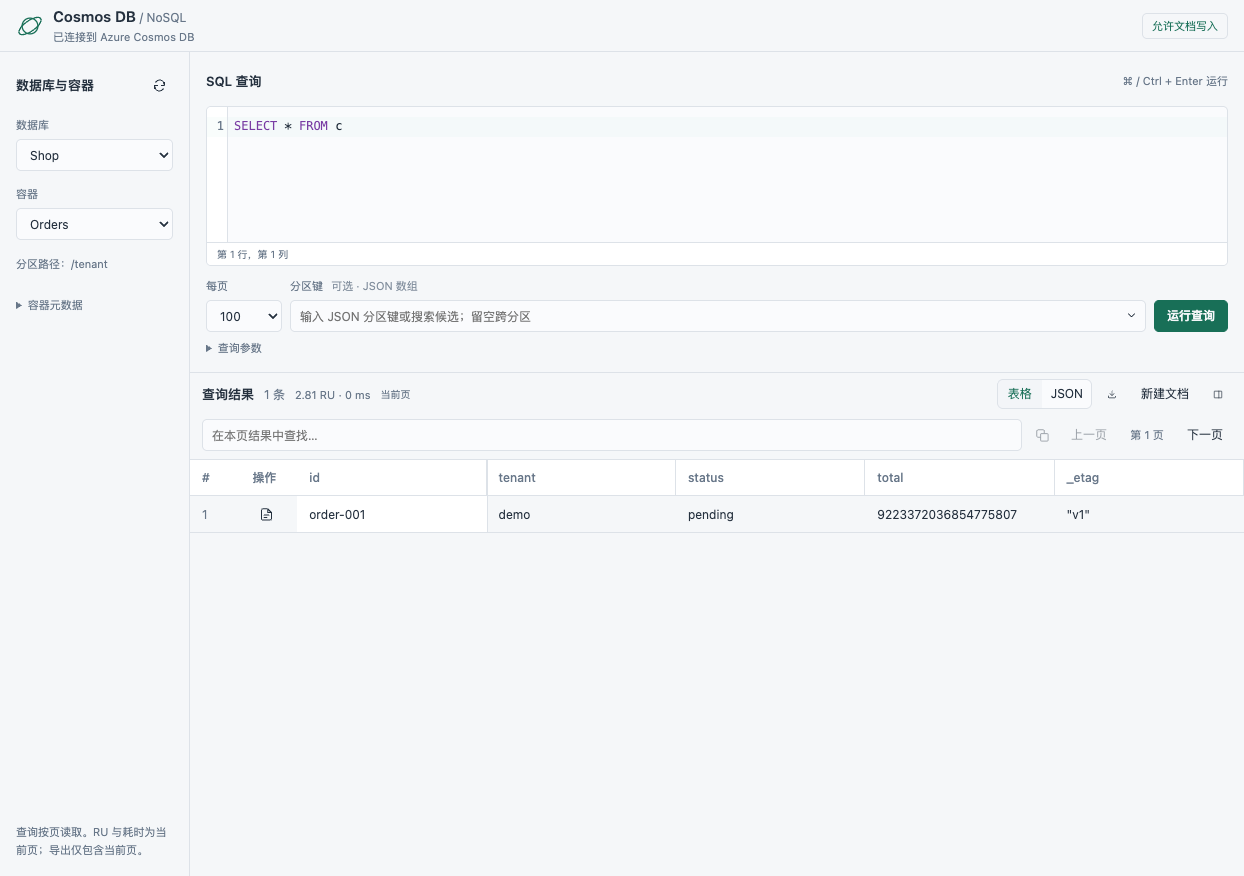
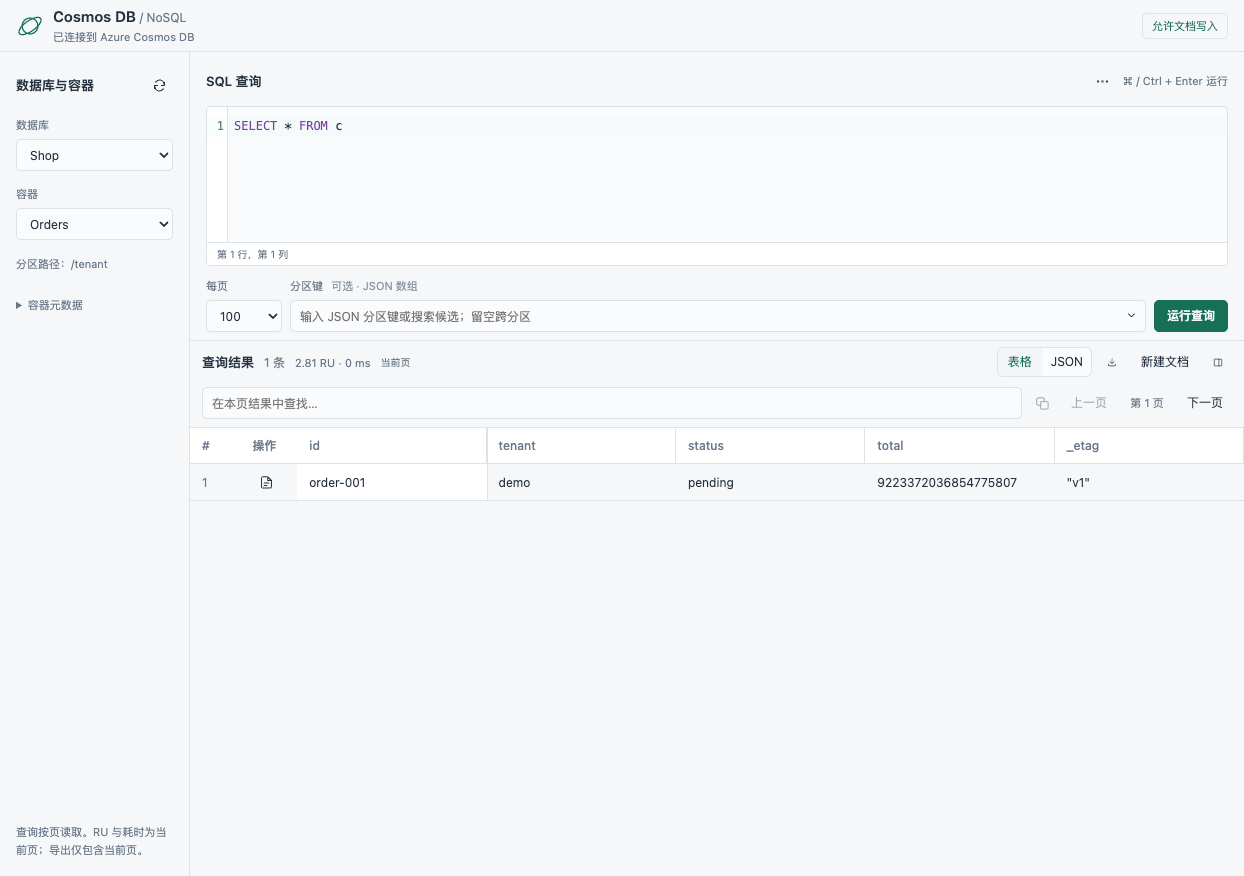
Prepare 0.24.0 release notes, privacy documentation and screenshots

diff --git a/docs/SECURITY.md b/docs/SECURITY.md
@@ -7,7 +7,7 @@ This document describes the release candidate for DBX Store review. The plugin s
 - Adds a Cosmos DB for NoSQL connection provider and a sandboxed workbench.
 - Manifest permissions are empty. This does not sandbox the native Go sidecar's operating-system access.
 - DBX owns saved connections and Secret Store credential persistence. The Account Key field uses `binding: secret`; the workbench UI is not given the Account Key.
-- The Go sidecar receives the active connection credentials through the DBX connection lifecycle and holds them in memory. It does not write Account Keys, authorization headers, or document bodies to its cache or logs.
+- The Go sidecar receives the active connection credentials through the DBX connection lifecycle and holds them in memory. It does not persist Account Keys received from the connection lifecycle or authorization headers, and it does not automatically cache returned document bodies. User-authored query input is stored separately as described below.
 
 ## Network and document access
 
@@ -22,8 +22,9 @@ This document describes the release candidate for DBX Store review. The plugin s
 - The sidecar writes a partition-key cache under the operating-system user cache directory (`dbx-plugin-cosmosdb/partition-keys-v1/`). Cache keys incorporate endpoint and connection/container identity as a hash. Files contain discovered partition values, progress and timestamps, not document bodies or credentials. Directories use 0700 and files 0600 on Unix-like systems.
 - Column widths are atomically persisted in private `table-layout-v1` files below `DBX_PLUGIN_DATA_DIR`, falling back to the user config directory. Paths hash endpoint, connection and container identity. Files are limited to 128 KiB, contain column names and dimensions only, and use 0600 permissions on Unix-like systems. Legacy visibility and pinning preferences are ignored; all returned fields are shown and id remains pinned.
 - The selected database/container pair is atomically persisted in `selected-scope-v1` below the same private data root, isolated by hashed endpoint and connection identity. Records contain only the version, database, container and a random revision, are limited to 8 KiB on read, and use 0700 directories / 0600 files on Unix-like systems. The workbench and MCP share this location. Existing connection defaults migrate after successful connection validation; the plugin does not rewrite DBX connection records or credentials. Invalid or inaccessible saved locations require explicit reselection instead of silently choosing another container.
-- Plugin-wide result/document view preferences are atomically persisted in `view-preferences-v1.json` under the same private data root. The versioned record contains only the enum values `table`/`json` and `fields`/`json`, with a 4 KiB read limit and 0600 files on Unix-like systems. Result and document choices merge independently; invalid records fall back to defaults. No SQL, parameters, document data or credentials are stored.
-- Document/query drafts and learned completion field names are in memory. Field-name learning does not trigger network scans.
+- Plugin-wide result/document view preferences are atomically persisted in `view-preferences-v1.json` under the same private data root. The versioned record contains only the enum values `table`/`json` and `fields`/`json`, with a 4 KiB read limit and 0600 files on Unix-like systems. Result and document choices merge independently; invalid records fall back to defaults. No SQL, parameters, document data or credentials are stored in this view-preference file.
+- Query input is atomically persisted as private `query-input-v1` records below the same data root, isolated by hashed endpoint, connection, database and container identity. Records contain the raw SQL, partition-key text, parameter text and page size, including unfinished syntax. SQL is limited to 256 KiB, parameter text to 128 KiB, partition text to 16 KiB and the encoded record/read to 2 MiB. Directories use 0700 and files 0600 on Unix-like systems. SQL literals and parameters may contain sensitive values; these records are local plaintext files protected by operating-system permissions, not encryption. They are not synchronized or exposed through MCP. Reopening restores input only; it never executes queries or starts discovery. Reset query overwrites this scope's saved input with defaults.
+- Unsaved document drafts, results, undo history and learned completion field names remain in memory. Field-name learning does not trigger network scans. In-flight local saves are not guaranteed after forced termination or sudden power loss.
 - Export is an explicit user action through DBX's `host.saveFile`; it exports the current result page only, with a 1 MiB limit.
 - Test servers, Azure validation scripts, package verification helpers, and identity migration notes are repository tooling. They are not included in the installed plugin.
 

diff --git a/docs/releases/0.24.0.md b/docs/releases/0.24.0.md
@@ -1,0 +1,37 @@
+# Cosmos DB NoSQL 0.24.0
+
+Requires **DBX 0.6.59+**. Supported package target: **macOS ARM64 (Apple Silicon)**.
+
+This release brings the workbench improvements since store version 0.16.0:
+
+- **A quieter workspace:** SQL syntax errors appear once, the document panel opens on demand, and auxiliary actions share compact icon menus. Type or filter partition keys directly in the input, or use its dropdown.
+- **Clearer JSON:** hierarchy guides, the active container highlight and property/item counts make nested data easier to read and fold. Formatting, copying and editing preserve large integers and decimal text.
+- **Your preferred views:** result table/JSON and document fields/JSON choices are remembered independently.
+- **Chinese and English:** the interface follows the DBX language. Editor search, diagnostics, confirmations and folding labels follow it too; unsupported languages fall back to English.
+- **Resume per container:** SQL, partition-key text, query parameters and page size are automatically saved for each connection/endpoint/database/container. Reopening or returning restores input without running a query. Reset query is available from the menu beside the SQL heading and retains results and document edits.
+- **Fewer distractions:** query parameters appear when SQL uses parameter placeholders or parameter input is populated. Existing parameterized queries remain supported.
+
+## Upgrading and local data
+
+Existing saved connections, selected containers, read-only settings and Account Keys remain in place. No new host permissions or MCP tools are added. MCP stays read-only; UI writes retain confirmation and ETag safeguards.
+
+**Query input is now saved locally as plaintext**, including SQL literals and parameter values, in private `query-input-v1` files (0700 directories / 0600 files on Unix-like systems). It is isolated by connection and container, not synchronized, and not exposed through MCP. Reset query replaces the saved input for the current scope with defaults. Query results, unsaved document bodies and undo history are not persisted; a forced exit can lose an in-flight save. See [runtime behavior and data access](https://github.com/fwrq41251/dbx-plugin-cosmosdb/blob/v0.24.0/docs/SECURITY.md).
+
+Account Key authentication and the existing cross-partition query pipeline limitations remain unchanged. Query history/favorites and automatic recovery of unsaved document edits are outside this release.
+
+## Installation and validation
+
+The GitHub Release workflow produces an **unsigned review candidate**. Ordinary users should install the signed package from DBX Marketplace after the store update is reviewed, signed and merged.
+
+Validation: 49 frontend tests, 66 Go race tests, Go vet and 78 browser tests passed. The macOS ARM64 package passed SHA-256, file checksum, license, protocol v1 and connection-lifecycle checks. Native DBX installation and close/reopen input restoration were verified without executing business queries or modifying business documents. Documentation screenshots use local mock data only.
+
+---
+
+## 中文摘要
+
+- 精简 SQL、文档面板和辅助菜单；分区键可直接输入、过滤或下拉选择。
+- JSON 增加层级引导、当前层级强调和折叠数量摘要，保持数字原文精度。
+- 中文/英文跟随 DBX，分别记住结果和文档查看格式。
+- 按连接和容器恢复 SQL、分区键、参数及每页数量，恢复后不自动查询；SQL 标题旁菜单可重置查询。
+- **查询输入会以明文保存到本机私有目录，可能包含 SQL 和参数中的敏感值**；不通过 MCP 提供，不保存查询结果或未保存文档。
+- 兼容 DBX 0.6.59+，仅提供 macOS ARM64 包；商店更新需等待维护者审核、签名和合并。

diff --git a/docs/VALIDATION.md b/docs/VALIDATION.md
@@ -238,4 +238,11 @@
 - 49 项前端测试、66 项 Go race 测试与 vet 通过。新增完整输入原文/精确数字保持、连接/endpoint/数据库/容器隔离、只读连接本地保存、私有权限、记录损坏/大小限制、原子替换及重置验证；前端覆盖迟到读取、用户编辑优先、目标快照和保存失败后的会话保留。
 - 完整 78 项浏览器回归通过。新增关闭重开恢复、未完成分区键和参数文本、重置持久化、跨容器/连接隔离、下拉选择和清除分区键的保存，以及重置保留查询结果和文档草稿；恢复/切换不自动执行查询。专项覆盖发现并修复 CodeMirror 重建沿用旧 locale 的问题，英文环境重新读取文档后仍保留英文编辑器标签。
 - Mac ARM64 包通过 SHA-256、全部文件校验和、许可证、protocol v1 和连接生命周期校验；`git diff --check` 通过。截图仍使用模拟数据且保存在忽略提交的测试产物目录。
-- 本机安装待完成：DBX 进程运行中，但原生界面接口返回 `cgWindowNotFound`，已请求恢复窗口。此前工作台输入已记录，未修改凭据、连接权限或业务文档。
+- 本机已安装并激活 0.24.0，28 个安装文件与已校验包逐项一致。窗口恢复后完成安装，并实际关闭/重开 test 工作台，SQL（包括尾部空格）和分区键自动恢复，原数据库/容器、JSON 偏好及收起侧栏布局保留；未自动执行查询，未修改凭据、连接权限或业务文档。
+
+
+### 0.24.0 发布准备
+
+- 功能提交 `c4e5589` 的 GitHub CI 已通过：构建、49 项前端测试、66 项 Go race 测试及 vet、78 项 Chromium 浏览器测试和打包。
+- 发布准备仅修改文档与模拟截图；补全本机安装及重开恢复记录、原始查询输入的本地明文存储说明，整理从商店 0.16.0 升级的中英文说明。4 项截图场景重新执行通过，截图来自隔离的本地模拟宿主，已检查工作台和英文界面的实际图像。
+- 当前本机 ARM64 安装包再次通过哈希、许可证、protocol v1 与连接生命周期校验，UI 与当前源码构建一致。正式发布时使用 release workflow 从固定提交重新生成的候选包及其元数据，不混用本地包哈希。

diff --git a/README.md b/README.md
@@ -16,16 +16,20 @@
 - 表格、JSON 编辑和传输保留大整数与小数原文精度。
 - 新增时继承当前分区键并生成 UUID；保存 / 删除前预览字段差异；写入后自动刷新上次查询与分区键缓存。
 - 字段视图支持筛选、类型保持的编辑与字段增删；默认使用带版本条件的 Patch 局部更新。
+- 中文/英文跟随 DBX 语言；独立记住结果和文档的查看格式。
+- 按容器自动保存并恢复 SQL、分区键、参数和每页数量；恢复后由用户执行查询。
 
 ![工作台（本地模拟数据）](docs/container-workspace.png)
 
+更多预览：[JSON 层级](docs/json-structure.png) · [英文界面](docs/workspace-english.png) · [深色主题](docs/dbx-polish-scoped-dark.png)
+
 ## 在 DBX 中安装
 
-`0.19.0` 开发候选版兼容目标为 DBX **0.6.59+**、Host API 1.x、sidecar protocol v1。首个商店版本 `0.8.0` 支持 DBX 0.6.49+，不含下述 MCP 功能。
+`0.24.0` 发布候选版兼容目标为 DBX **0.6.59+**、Host API 1.x、sidecar protocol v1。首个商店版本 `0.8.0` 支持 DBX 0.6.49+，不含下述 MCP 功能。
 
 打开 **DBX → 插件中心 → Marketplace**，搜索 **Cosmos DB NoSQL**，确认发布者为 `fwrq41251`，点击安装。官方商店自动验证安装包签名，无需开启“允许安装未签名开发包”。
 
-正式插件 ID 为 `io.github.fwrq41251.cosmosdb`，当前商店版为 `0.8.0`，支持 macOS ARM64（Apple Silicon）。其他平台暂未提供商店安装包。[上架记录](https://github.com/t8y2/dbx-store/pull/384)。更新或重装前先关闭使用此插件的连接；同一正式插件身份的连接可在安装后重新打开。
+正式插件 ID 为 `io.github.fwrq41251.cosmosdb`，截至本次发布准备，商店版为 `0.16.0`，支持 macOS ARM64（Apple Silicon）。其他平台暂未提供商店安装包。[0.16.0 上架记录](https://github.com/t8y2/dbx-store/pull/397)。更新或重装前先关闭使用此插件的连接；同一正式插件身份的连接可在安装后重新打开。
 
 新建连接时选择 **Azure Cosmos DB for NoSQL**：
 

diff --git a/docs/RELEASING.md b/docs/RELEASING.md
@@ -2,6 +2,12 @@
 
 正式身份：`io.github.fwrq41251.cosmosdb`，发布者 `fwrq41251`。首个商店版本 `0.8.0` 已于 2026-10-28（日本时间）通过 [PR #384](https://github.com/t8y2/dbx-store/pull/384) 合并上架，发布目标仅为 `darwin-arm64`。其他系统和 CPU 尚不声明为商店支持目标。
 
+## 0.24.0 准备状态
+
+当前商店目录的 `latestVersion` 为 `0.16.0`（[PR #397](https://github.com/t8y2/dbx-store/pull/397) 已合并），源码最新已验证功能提交为 `c4e5589`。0.24.0 已在本机安装并验证，发布说明见 [0.24.0](releases/0.24.0.md)。版本兼容目标仍为 DBX 0.6.59+ / macOS ARM64，插件身份及四个只读 MCP 工具不变。
+
+发布准备可以先创建 GitHub Release 草稿，目标固定到完成文档准备的提交。草稿尚不公开，不触发 release workflow；正式发布后才由固定的官方 workflow 构建并上传候选包和 `release-candidates.json`。不提前把本地包作为正式候选资产上传，避免与 CI 重建结果混淆。发布后核对 workflow、下载产物的哈希/大小和协议，再检查自动创建的商店更新 PR。商店审核签名及合并仍由维护者完成。
+
 ## 源码与候选包
 
 1. 更新 Manifest、前端包版本、后端 protocol 元信息以及变更记录，完成模型、浏览器、Go 与实际打包后端验证。
